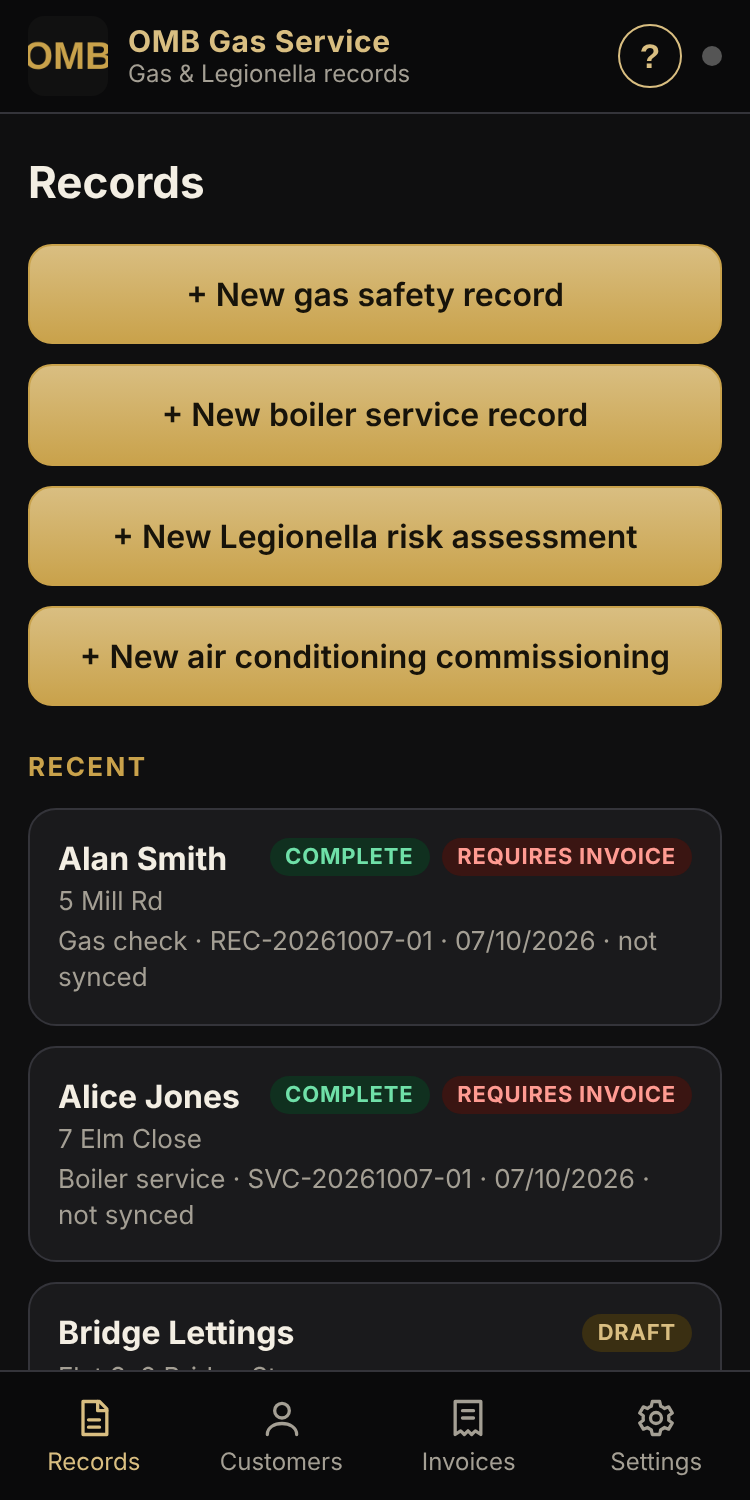
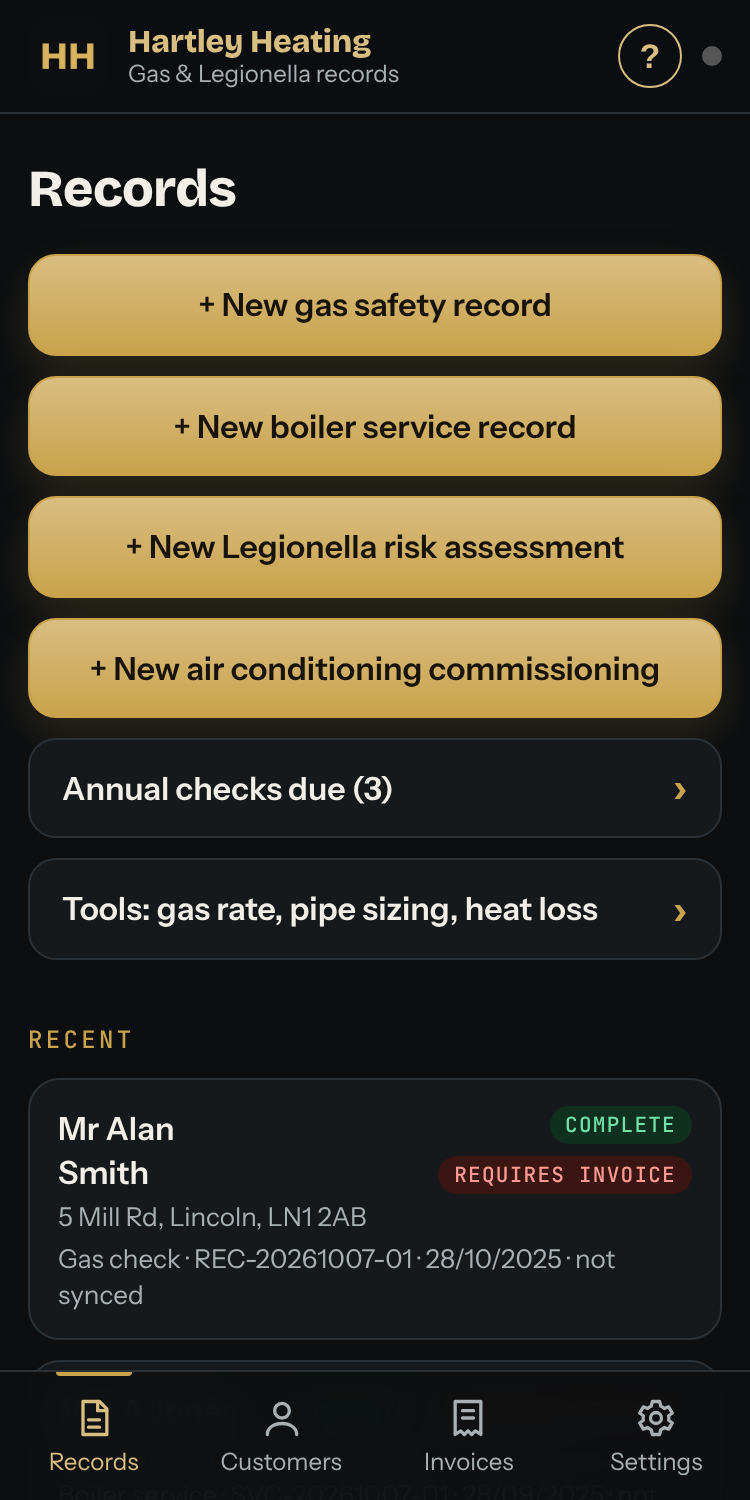
Site: show the latest app (v80) with Annual checks, Tools and calculator screens
Claude-Session: https://claude.ai/code/session_012rtknr6A2ubZ11kxSfU4iP

diff --git a/index.html b/index.html
@@ -48,7 +48,7 @@
     </div>
     <div class="visual"><div class="halo"></div>
       <svg class="orbit" viewBox="0 0 200 200" aria-hidden="true"><circle cx="100" cy="100" r="98" fill="none" stroke="#D9B25F" stroke-width=".6" stroke-dasharray="2 7"/><circle cx="100" cy="100" r="72" fill="none" stroke="#D9B25F" stroke-width=".4" stroke-dasharray="1 5"/></svg>
-      <div class="float"><figure class="phone" id="tilt"><img src="img/shot-1.png" width="750" height="1500" alt="The records screen with buttons to start each type of form"></figure></div>
+      <div class="float"><figure class="phone" id="tilt"><img src="img/shot-1.png" width="750" height="1500" alt="The home screen with buttons for each form, Annual checks due and Tools"></figure></div>
       <svg class="mark big" viewBox="24 24 72 72" aria-hidden="true" ><g transform="translate(0,8)"><circle class="ring" cx="60" cy="52" r="28" fill="none" stroke="#D9B25F" stroke-width="9"/><path class="fl" fill-rule="evenodd" fill="#D9B25F" d="M60 33C61 41 72 46 72 57C72 64.5 66.5 69.5 60 69.5C53.5 69.5 48 64.5 48 57C48 51.5 51 48 53.5 44.5C54 49 56 51.5 58.5 52C57 45.5 57.5 38.5 60 33ZM60 64.5C57 64.5 55 62.5 55 59.8C55 57.2 57 55.8 58.2 53.5C59.5 55.8 65 57.2 65 59.8C65 62.5 63 64.5 60 64.5Z"/></g></svg>
     </div>
   </div>
@@ -143,9 +143,12 @@
     <p class="eyebrow rv">Inside the app</p>
     <h2 class="rv">What it looks like</h2>
     <div class="shots rv">
-      <figure class="shot"><div class="phone"><img src="img/shot-1.png" width="750" height="1500" alt="The records screen with buttons to start each type of form"></div><figcaption>Pick the job. Start the forms.</figcaption></figure>
-      <figure class="shot"><div class="phone"><img src="img/shot-2.png" width="750" height="1500" alt="The gas rate calculator showing gross and net heat input"></div><figcaption>Time the meter. Get the heat input.</figcaption></figure>
-      <figure class="shot"><div class="phone"><img src="img/shot-3.png" width="750" height="1500" alt="An invoice being created with a client suggested as you type"></div><figcaption>Type a name. Pick the customer.</figcaption></figure>
+      <figure class="shot"><div class="phone"><img src="img/shot-1.png" width="750" height="1500" alt="The home screen with buttons for each form, Annual checks due and Tools"></div><figcaption>Pick the job. Start the forms.</figcaption></figure>
+      <figure class="shot"><div class="phone"><img src="img/shot-5.png" width="750" height="1500" alt="The Annual checks due list with Text, WhatsApp and Email buttons"></div><figcaption>See who is due. Send the reminder.</figcaption></figure>
+      <figure class="shot"><div class="phone"><img src="img/shot-6.png" width="750" height="1500" alt="The Tools list: gas rate, pipe sizing, tightness test volume and heat loss"></div><figcaption>Every calculator in one place.</figcaption></figure>
+      <figure class="shot"><div class="phone"><img src="img/shot-2.png" width="750" height="1500" alt="The gas rate calculator showing gas rate and gross and net heat input"></div><figcaption>Time the meter. Get the heat input.</figcaption></figure>
+      <figure class="shot"><div class="phone"><img src="img/shot-3.png" width="750" height="1500" alt="Gas pipe sizing showing which copper sizes are big enough"></div><figcaption>Size the pipe. See where it can step down.</figcaption></figure>
+      <figure class="shot"><div class="phone"><img src="img/shot-4.png" width="750" height="1500" alt="The tightness test volume tool showing installation volume"></div><figcaption>Tightness test volume, new regs.</figcaption></figure>
     </div>
   </div>
 </section>

diff --git a/style.css b/style.css
@@ -100,7 +100,7 @@ dialog#viewer img{display:block;width:100%;height:auto}
 @media(max-width:620px){.points{column-count:1}}
 
 /* screens */
-.shots{display:grid;grid-template-columns:repeat(3,1fr);gap:28px;margin-top:34px}
+.shots{display:grid;grid-template-columns:repeat(3,1fr);gap:40px 28px;margin-top:34px}
 .shot{margin:0}
 .shot figcaption{font-weight:600;font-size:16px;margin:16px 4px 0}
 @media(max-width:760px){.shots{display:flex;overflow-x:auto;gap:18px;padding:4px 2px 18px;scroll-snap-type:x proximity;-webkit-overflow-scrolling:touch}.shot{flex:0 0 250px;scroll-snap-align:start}}
